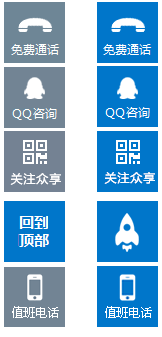
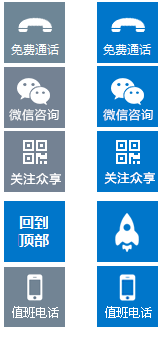
新增微信展示
新增微信展示

Changed region(s): [[0.6173, 0.2077, 0.9568, 0.3561], [0.0617, 0.2077, 0.3704, 0.3561]]

diff --git a/themes/sharingany/Public/css/public.css b/themes/sharingany/Public/css/public.css
@@ -510,13 +510,18 @@ visibility:hidden;
 .float-box span { border-bottom: 1px solid #dfe6e9; padding: 4px 0; display: block; }
 .float-box span.btn-1 { padding-top: 0; }
 .float-box span.btn-3 { border-bottom: 0; padding-bottom: 0; }
-.float-box span.btn-3 img{
+.float-box span.btn-3 img,.float-box span.btn-2 img{
 	position: absolute;
 	width: 0px;
 	height: 0px;
 	bottom: 0px;
 	right: 61px;
 	background: #df9768;
+	transition:all ease-in-out .5s;
+}
+.float-box span.btn-2:hover img{
+	width: 100px;
+	height: 100px;
 }
 .float-box span.btn-1 a { background-position: -15px -4px; }
 .float-box span.btn-2 a { background-position: -15px -44px; }
@@ -1226,3 +1231,7 @@ font-family: "黑体";
 	height: 80px;
     margin: 0 auto;
 }
+
+.ewmbox{position:absolute;width: 80px;height: 80px;overflow: hidden;left: 50%;bottom: 120px;margin-left: 10px;}
+.ewmbox img{max-width:100%;height: auto;}
+.wx-top,.wx-bottom{height: 125px;}

diff --git a/themes/sharingany/Public/footer.html b/themes/sharingany/Public/footer.html
@@ -18,6 +18,9 @@
                 <p class="shouqian swhz"><span>{$shangwuhezuo}</span></p>
 			</dt>
 		</dl>
+        <div class="ewmbox">
+        	<img src="__PUBLIC__/images/wxewm.jpg">
+        </div>
 		<dl class="f_1 dl3">
 		<div class="_link_1">
 				
@@ -41,8 +44,13 @@
 </div>
 		</div>
 		<div class="float-box simple call" float-box="box" style="bottom: 50px; right: 20px;">
-			<span class="btn-2">
+			<!--<span class="btn-2">
 				<a id="qqbtn2" target="_blank" href="http://wpa.qq.com/msgrd?v=3&uin={$company_qq}&site=qq&menu=yes" title="在线咨询"></a>
+			</span>-->
+            <span class="btn-2">
+			<a alt="点我关掉" href="javascript:void(0);">
+                <img src="__PUBLIC__/images/wxewm.jpg" style="max-width:100px;">
+            </a>
 			</span>
 			<div class="blank"></div>
 			<span class="btn-3">

diff --git a/themes/sharingany/Portal/contactus.html b/themes/sharingany/Portal/contactus.html
@@ -44,10 +44,17 @@ $about_us=sp_getslide("about_us");
             </div>
 		</div>
 		<div class="f_r wx_img_b">
-			<img alt="图片无法显示哦~" src="{:sp_get_asset_upload_path($site_erweima)}" class="f_l ml-115" height="115" width="115">
+			<div class="wx-top">
+            <img alt="图片无法显示哦~" src="{:sp_get_asset_upload_path($site_erweima)}" class="f_l ml-115" height="115" width="115">
 			<p class="con">
 				扫描关注<br>微信公众平台
 			</p>
+            </div>
+            <div class="wx-bottom">
+                <img src="__PUBLIC__/images/wxewm.jpg" class="f_l ml-115" height="115" width="115">
+                <p class="con">
+                    扫一扫<br>加我微信号
+            </div>
 		</div>
 	</div>
 		<div class="blank91"></div>
